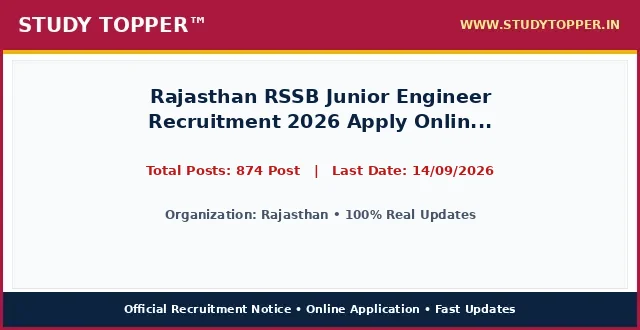
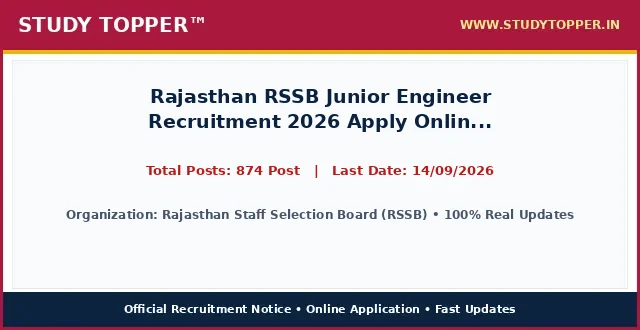
chore(lifecycle): daily auto-sort vacancies and update active dates

Changed region(s): [[0.0938, 0.6364, 0.9062, 0.6667]]

diff --git a/pages/rajasthan-rssb-je-august26.html b/pages/rajasthan-rssb-je-august26.html
@@ -987,12 +987,12 @@ ul.wp-block-latest-posts a:hover {
 <main class="site-main" id="main">
 <div class="gb-container gb-container-b39c368c">
 <h1 class="gb-headline gb-headline-e52a0102 gb-headline-text" style="font-size: 22px; font-weight: 700; color: #0000cd; text-align: left; margin: 8px 0 4px 0; line-height: 1.3; width: 100%; font-family: '-apple-system, BlinkMacSystemFont, 'Segoe UI', Roboto, 'Helvetica Neue', Arial, sans-serif', Times, serif, Hind, sans-serif;">Rajasthan RSSB Junior Engineer Recruitment 2026 Apply Online for 874 Post</h1>
-<div class="gb-container gb-container-659bd175"><p style="color: #cd0808; font-weight: 700; font-size: 15px; margin: 2px 0 7px 0; text-align: left; font-family: '-apple-system, BlinkMacSystemFont, 'Segoe UI', Roboto, 'Helvetica Neue', Arial, sans-serif', Times, serif, Hind, sans-serif;">Post Date: August 22, 2026 11:51 AM</p></div>
-<p class="gb-headline gb-headline-550ae316 short_Details gb-headline-text" style="width: 100%; max-width: 100%; font-size: 16.8px; line-height: 1.55; color: #000000; text-align: justify; text-justify: inter-word; margin: 8px 0 14px 0; display: block; font-family: '-apple-system, BlinkMacSystemFont, 'Segoe UI', Roboto, 'Helvetica Neue', Arial, sans-serif', Times, serif, Hind, sans-serif;"><strong style="color: #0000cd;">Rajasthan</strong> has officially published the recruitment notice <strong style="color: #cd0808;">Rajasthan RSSB Junior Engineer Recruitment 2026 Apply Online for 874 Post</strong> under notification number Official Advt 2026. Online applications are invited for 874 Post across multiple departments and cadre positions. Interested candidates possessing the requisite educational qualifications and falling between 18 Years to 40 Years can complete their online registration before the application deadline of 14/09/2026. Applicants should read the eligibility criteria, category reservation rules, and exam scheme thoroughly before submitting applications.</p>
+<div class="gb-container gb-container-659bd175"><p style="color: #cd0808; font-weight: 700; font-size: 15px; margin: 2px 0 7px 0; text-align: left; font-family: '-apple-system, BlinkMacSystemFont, 'Segoe UI', Roboto, 'Helvetica Neue', Arial, sans-serif', Times, serif, Hind, sans-serif;">Post Date: August 22, 2026 12:58 PM</p></div>
+<p class="gb-headline gb-headline-550ae316 short_Details gb-headline-text" style="width: 100%; max-width: 100%; font-size: 16.8px; line-height: 1.55; color: #000000; text-align: justify; text-justify: inter-word; margin: 8px 0 14px 0; display: block; font-family: '-apple-system, BlinkMacSystemFont, 'Segoe UI', Roboto, 'Helvetica Neue', Arial, sans-serif', Times, serif, Hind, sans-serif;"><strong style="color: #0000cd;">Rajasthan Staff Selection Board (RSSB)</strong> has officially published the recruitment notice <strong style="color: #cd0808;">Rajasthan RSSB Junior Engineer Recruitment 2026 Apply Online for 874 Post</strong> under notification number Official Notification 2026. Online applications are invited for 874 Post across multiple departments and cadre positions. Interested candidates possessing the requisite educational qualifications and falling between 18 Years to 40 Years can complete their online registration before the application deadline of 14/09/2026. Applicants should read the eligibility criteria, category reservation rules, and exam scheme thoroughly before submitting applications.</p>
 <div class="gb-container gb-container-9849916c"><div class="social-buttons-compact" style="display: flex; justify-content: flex-start; align-items: center; gap: 10px; margin: 10px 0 16px 0; width: 100%;"><a class="social-btn-compact wa" href="https://whatsapp.com/channel/0029Va9xyz" rel="noopener" style="background-color: #00d084; color: #ffffff; padding: 10px 18px; border-radius: 4px; text-decoration: none; font-weight: bold; font-size: 15.5px; display: inline-flex; align-items: center; justify-content: center; height: auto;" target="_blank">WhatsApp</a><a class="social-btn-compact tg" href="https://t.me/studytopperofficial" rel="noopener" style="background-color: #0088cc; color: #ffffff; padding: 10px 18px; border-radius: 4px; text-decoration: none; font-weight: bold; font-size: 15.5px; display: inline-flex; align-items: center; justify-content: center; height: auto;" target="_blank">Telegram</a></div></div>
 <div class="gb-container gb-container-f58e6ca1" style="border: 2px solid #5b032f; border-radius: 4px; overflow: hidden; margin: 15px 0 20px 0; background-color: #ffffff; width: 100%; box-sizing: border-box;">
 <h2 class="gb-headline gb-headline-2ca5a791 gb-headline-text" style="font-size: 16px; font-weight: 700; text-align: center; color: #ef0303; line-height: 1.3; padding: 6px 4px; margin: 0; background: #ffffff; font-family: '-apple-system, BlinkMacSystemFont, 'Segoe UI', Roboto, 'Helvetica Neue', Arial, sans-serif', Times, serif, Hind, sans-serif;">Rajasthan RSSB Junior Engineer Recruitment 2026 Apply Online for 874 Post &ndash; Latest Details &amp; Updates</h2>
-<h3 class="gb-headline gb-headline-7d5f86e8 gb-headline-text" style="font-size: 16px; font-weight: 600; text-align: center; color: #009703; line-height: 1.25; margin: 0; padding: 2px 4px 6px 4px; background: #ffffff; font-family: '-apple-system, BlinkMacSystemFont, 'Segoe UI', Roboto, 'Helvetica Neue', Arial, sans-serif', Times, serif, Hind, sans-serif;">Rajasthan : Details &amp; Summary</h3>
+<h3 class="gb-headline gb-headline-7d5f86e8 gb-headline-text" style="font-size: 16px; font-weight: 600; text-align: center; color: #009703; line-height: 1.25; margin: 0; padding: 2px 4px 6px 4px; background: #ffffff; font-family: '-apple-system, BlinkMacSystemFont, 'Segoe UI', Roboto, 'Helvetica Neue', Arial, sans-serif', Times, serif, Hind, sans-serif;">Rajasthan Staff Selection Board (RSSB) : Details &amp; Summary</h3>
 <p class="gb-headline gb-headline-79adf169 gb-headline-text" style="margin: 0 0 6px 0; font-family: '-apple-system, BlinkMacSystemFont, 'Segoe UI', Roboto, 'Helvetica Neue', Arial, sans-serif', Times, serif, Hind, sans-serif; text-align: center; font-size: 18px; font-weight: 700;"><a href="/" style="color: #0000ff; text-decoration: underline;">StudyTopper.in</a></p>
 
 <style id="st-post-boxes-responsive-css">
@@ -1025,7 +1025,7 @@ ul.wp-block-latest-posts a:hover {
     <div style="background-color: #5b032f; color: #ffffff; padding: 8px 10px; font-size: 20px; font-weight: 700; text-align: center; font-family: '-apple-system, BlinkMacSystemFont, 'Segoe UI', Roboto, 'Helvetica Neue', Arial, sans-serif', Times, serif, Hind, sans-serif;">Important Dates</div>
     <div style="padding: 12px 14px; background-color: #ffffff;">
       <ul style="padding-left: 20px; margin: 0; list-style-type: disc; text-align: left; font-size: 14pt; line-height: 1.6; font-family: '-apple-system, BlinkMacSystemFont, 'Segoe UI', Roboto, 'Helvetica Neue', Arial, sans-serif', Times, serif, Hind, sans-serif;">
-        <li><span style="font-size: 14pt;">Application Begin : <strong>16/08/2026</strong></span></li><li><span style="font-size: 14pt;">Last Date for Apply Online : <span style="color: #ff0000;"><strong>14/09/2026</strong></span></span></li><li><span style="font-size: 14pt;">Pay Exam Fee Last Date : <span style="color: #ff0000;"><strong>14/08/2026</strong></span></span></li><li><span style="font-size: 14pt;">RSSB JEn Exam Date : <strong>As per Schedule</strong></span></li><li><span style="font-size: 14pt;">Admit Card Available : <strong>Before Exam</strong></span></li>
+        <li><span style="font-size: 14pt;">Application Begin : <strong>16/08/2026</strong></span></li><li><span style="font-size: 14pt;">Last Date for Apply Online : <span style="color: #ff0000;"><strong>14/09/2026</strong></span></span></li><li><span style="font-size: 14pt;">Pay Exam Fee Last Date : <span style="color: #ff0000;"><strong>14/08/2026</strong></span></span></li><li><span style="font-size: 14pt;">Admit Card Available : <strong>Before Exam</strong></span></li>
       </ul>
     </div>
   </div>
@@ -1034,7 +1034,7 @@ ul.wp-block-latest-posts a:hover {
     <div style="background-color: #5b032f; color: #ffffff; padding: 8px 10px; font-size: 20px; font-weight: 700; text-align: center; font-family: '-apple-system, BlinkMacSystemFont, 'Segoe UI', Roboto, 'Helvetica Neue', Arial, sans-serif', Times, serif, Hind, sans-serif;">Application Fee</div>
     <div style="padding: 12px 14px; background-color: #ffffff;">
       <ul style="padding-left: 20px; margin: 0; list-style-type: disc; text-align: left; font-size: 14pt; line-height: 1.6; font-family: '-apple-system, BlinkMacSystemFont, 'Segoe UI', Roboto, 'Helvetica Neue', Arial, sans-serif', Times, serif, Hind, sans-serif;">
-        <li><span style="font-size: 14pt;">General / OBC / Other State : <strong>600/-</strong></span></li><li><span style="font-size: 14pt;">OBC NCL / MBC / EWS / SC / ST / PH (Rajasthan) : <strong>400/-</strong></span></li><li><span style="font-size: 14pt;">Correction Charge : <strong>300/-</strong></span></li>
+        <li><span style="font-size: 14pt;">General / OBC / Other State : <strong>600/-</strong></span></li><li><span style="font-size: 14pt;">OBC NCL / MBC / EWS / SC / ST / PH (Rajasthan) : <strong>400/-</strong></span></li><li><span style="font-size: 14pt;">Correction Charge : <strong>300/-</strong></span></li><li><span style="font-size: 14pt;">Payment Mode : <strong>Pay the Exam Fee Through Online / Offline Fee Mode Only</strong></span></li>
       </ul>
       <div style="margin-top: 10px; font-size: 14pt; line-height: 1.5; color: #000000; border-top: 1px dashed #ccc; padding-top: 8px; font-family: '-apple-system, BlinkMacSystemFont, 'Segoe UI', Roboto, 'Helvetica Neue', Arial, sans-serif', Times, serif, Hind, sans-serif;">
         <strong>Mode of Payment / Access:</strong> Online via Net Banking, Debit Card, Credit Card, UPI or Free Candidate Portal.
@@ -1047,10 +1047,10 @@ ul.wp-block-latest-posts a:hover {
 <div class="st-grid-row" style="display: flex; flex-wrap: wrap; width: 100%; border-top: 2px solid #5b032f; margin: 0; padding: 0; box-sizing: border-box;">
   <!-- Left Col: Age Limits -->
   <div class="st-col-half st-col-border-right" style="box-sizing: border-box; vertical-align: top;">
-    <div style="background-color: #046132; color: #ffffff; padding: 8px 10px; font-size: 17px; font-weight: 700; text-align: center; font-family: '-apple-system, BlinkMacSystemFont, 'Segoe UI', Roboto, 'Helvetica Neue', Arial, sans-serif', Times, serif, Hind, sans-serif;">Rajasthan : Age Limits As On 01 August 2026</div>
+    <div style="background-color: #046132; color: #ffffff; padding: 8px 10px; font-size: 17px; font-weight: 700; text-align: center; font-family: '-apple-system, BlinkMacSystemFont, 'Segoe UI', Roboto, 'Helvetica Neue', Arial, sans-serif', Times, serif, Hind, sans-serif;">Rajasthan Staff Selection Board (RSSB) : Age Limits As On 01/01/2027</div>
     <div style="padding: 12px 14px; background-color: #ffffff;">
       <ul style="padding-left: 20px; margin: 0; list-style-type: disc; text-align: left; font-size: 14pt; line-height: 1.6; font-family: '-apple-system, BlinkMacSystemFont, 'Segoe UI', Roboto, 'Helvetica Neue', Arial, sans-serif', Times, serif, Hind, sans-serif;">
-        <li><span style="font-size: 14pt;">Minimum Age : <strong>18 Years</strong></span></li><li><span style="font-size: 14pt;">Maximum Age : <strong>40 Years</strong></span></li>
+        <li><span style="font-size: 14pt;">Minimum Age : <strong>18 Years</strong></span></li><li><span style="font-size: 14pt;">Maximum Age : <strong>40 Years</strong></span></li><li><span style="font-size: 14pt;">Age Relaxation : <strong>Age Relaxation Extra as per Rajasthan RSSB Junior Engineer Recruitment Rules Advt. No. 10/2026.</strong></span></li>
       </ul>
     </div>
   </div>
@@ -1070,7 +1070,19 @@ ul.wp-block-latest-posts a:hover {
 <div class="gb-container gb-container-ec1f6e4c">
 <h2 class="gb-headline gb-headline-c7683bda gb-headline-text" style="font-size: 24px; font-weight: 800; text-align: center; color: #ef0303; line-height: 1.35; margin: 20px 0 12px 0; padding: 6px 4px; font-family: '-apple-system, BlinkMacSystemFont, 'Segoe UI', Roboto, 'Helvetica Neue', Arial, sans-serif', Times, serif, Hind, sans-serif;">Rajasthan RSSB Junior Engineer Recruitment 2026 Apply Online for 874 Post : Key Overview &amp; Matrix</h2>
 <div class="gb-headline gb-headline-60ccea19 gb-headline-text">
-
+<table style="border-collapse: collapse; width: 100%; height: 150px;">
+<tbody>
+<tr style="height: 25px;">
+<td colspan="2" style="width: 50%; text-align: center; height: 25px;"><span style="background-color: #000080; color: #ffffff; font-size: 14pt;"><strong> Rajasthan Staff Selection Board (RSSB) : Category Wise Vacancy Details </strong></span></td>
+</tr>
+<tr style="height: 25px;">
+<td style="width: 50%; height: 25px; text-align: center;"><span style="font-size: 14pt;"><strong>Category / Particulars</strong></span></td>
+<td style="width: 50%; height: 25px; text-align: center;"><span style="font-size: 14pt;"><strong>Count / Status</strong></span></td>
+</tr>
+<tr><td style="text-align: center;">Total Post</td><td style="text-align: center; font-weight: bold; color: #ff0000;">351</td></tr><tr><td style="text-align: center;">Rajasthan RSSB Junior Engineer Eligibility</td><td style="text-align: center; font-weight: normal; color: inherit;">Engineering Diploma or Degree in Related Trade / Branch from any Recognized Institute in India. More Eligibility Details Read the Notification</td></tr><tr><td style="text-align: center;">Degree Type</td><td style="text-align: center; font-weight: normal; color: inherit;">Degree</td></tr><tr><td style="text-align: center;">Non TSP</td><td style="text-align: center; font-weight: normal; color: inherit;">329</td></tr><tr><td style="text-align: center;">TSP</td><td style="text-align: center; font-weight: normal; color: inherit;">22</td></tr>
+</tbody>
+</table>
+<p>&nbsp;</p>
 <table style="border-collapse: collapse; width: 100%;">
 <tbody>
 <tr>
@@ -1079,9 +1091,33 @@ ul.wp-block-latest-posts a:hover {
 <th style="background-color: #f53c00; color: #ffffff; padding: 6px 10px; text-align: center; border: 1px solid #d35400; font-size: 15px; font-weight: 700; font-family: '-apple-system, BlinkMacSystemFont, 'Segoe UI', Roboto, 'Helvetica Neue', Arial, sans-serif', Times, serif, Hind, sans-serif;">Eligibility Criteria</th>
 </tr>
 <tr>
-<td style="padding: 8px; border: 1px solid #ddd; font-weight: bold;">Rajasthan Recruitment</td>
-<td style="padding: 8px; border: 1px solid #ddd; text-align: center; font-weight: bold;">874 Post</td>
-<td style="padding: 8px; border: 1px solid #ddd;">Please refer to the official notification linked below for detailed educational qualifications.</td>
+<td style="padding: 8px; border: 1px solid #ddd; font-weight: bold;">Junior Engineer</td>
+<td style="padding: 8px; border: 1px solid #ddd; text-align: center; font-weight: bold;">874</td>
+<td style="padding: 8px; border: 1px solid #ddd;">Engineering Diploma or Degree in Related Trade / Branch from any Recognized Institute in India. More Eligibility Details Read the Notification</td>
+</tr><tr>
+<td style="padding: 8px; border: 1px solid #ddd; font-weight: bold;">RSSB Junior Engineer Online Form 2026 : Post Wise Vacancy Details Post Name Degree Type Non TSP TSP Total Post Junior Engineer Civil (Public Works Department) Degree 329 22 351 Diploma 41 01 42 Junior Engineer (Water Resources Department) Degree 72 0 72 Diploma 144 35 179 Junior Engineer (Department of Public Health Engineering) Degree 44 03 47 Diploma 133 18 151 Diploma Electrical / Mechanic 30 02 32</td>
+<td style="padding: 8px; border: 1px solid #ddd; text-align: center; font-weight: bold;">Post Name</td>
+<td style="padding: 8px; border: 1px solid #ddd;">Degree Type Non TSP TSP Total Post Junior Engineer Civil (Public Works Department) Degree 329 22 351 Diploma 41 01 42 Junior Engineer ( Water Resources Department) Degree 72 0 72 Diploma 144 35 179 Junior Engineer (Department of Public Health Engineering) Degree 44 03 47 Diploma 133 18 151 Diploma Electrical / Mechanic 30 02 32</td>
+</tr><tr>
+<td style="padding: 8px; border: 1px solid #ddd; font-weight: bold;">Junior Engineer Civil (Public Works Department)</td>
+<td style="padding: 8px; border: 1px solid #ddd; text-align: center; font-weight: bold;">Degree</td>
+<td style="padding: 8px; border: 1px solid #ddd;">329 22 351</td>
+</tr><tr>
+<td style="padding: 8px; border: 1px solid #ddd; font-weight: bold;">Diploma</td>
+<td style="padding: 8px; border: 1px solid #ddd; text-align: center; font-weight: bold;">41</td>
+<td style="padding: 8px; border: 1px solid #ddd;">01 42</td>
+</tr><tr>
+<td style="padding: 8px; border: 1px solid #ddd; font-weight: bold;">Junior Engineer (Water Resources Department)</td>
+<td style="padding: 8px; border: 1px solid #ddd; text-align: center; font-weight: bold;">Degree</td>
+<td style="padding: 8px; border: 1px solid #ddd;">72 0 72</td>
+</tr><tr>
+<td style="padding: 8px; border: 1px solid #ddd; font-weight: bold;">Junior Engineer (Department of Public Health Engineering)</td>
+<td style="padding: 8px; border: 1px solid #ddd; text-align: center; font-weight: bold;">Degree</td>
+<td style="padding: 8px; border: 1px solid #ddd;">44 03 47</td>
+</tr><tr>
+<td style="padding: 8px; border: 1px solid #ddd; font-weight: bold;">Diploma Electrical / Mechanic</td>
+<td style="padding: 8px; border: 1px solid #ddd; text-align: center; font-weight: bold;">30</td>
+<td style="padding: 8px; border: 1px solid #ddd;">02 32</td>
 </tr>
 </tbody>
 </table>
@@ -1093,10 +1129,10 @@ ul.wp-block-latest-posts a:hover {
 <table style="border-collapse: collapse; width: 100%;">
 <tbody>
 <tr>
-<td style="width: 100%; text-align: center;"><span style="background-color: #000080; color: #ffffff; font-size: 14pt; font-weight: bold; display: block; padding: 6px;"> How to Fill Rajasthan Online Application Form </span></td>
+<td style="width: 100%; text-align: center;"><span style="background-color: #000080; color: #ffffff; font-size: 14pt; font-weight: bold; display: block; padding: 6px;"> How to Fill Rajasthan Staff Selection Board (RSSB) Online Application Form </span></td>
 </tr>
 <tr>
-<td style="width: 100%;"><ol style="margin:0; padding-left:18px; text-align: left !important; list-style-position: outside !important"><li style="margin-bottom:6px; text-align: left !important;">Read the official recruitment notification carefully before applying.</li><li style="margin-bottom:6px; text-align: left !important;">Keep all basic documents ready: ID Proof, Address Details, Basic Details.</li><li style="margin-bottom:6px; text-align: left !important;">Ready your scanned documents like Photo, Signature, ID Proof, etc.</li><li style="margin-bottom:6px; text-align: left !important;">Click on the 'Apply Online' link given in the Important Links section below.</li><li style="margin-bottom:6px; text-align: left !important;">Fill out all the columns in the application form accurately.</li><li style="margin-bottom:6px; text-align: left !important;">Pay the required application fee if applicable.</li><li style="margin-bottom:6px; text-align: left !important;">Take a printout of the final submitted application form.</li><li style="margin-bottom:6px; text-align: left !important;">Resize candidate photograph and signature accurately using the <a href="https://indtool.in" rel="noopener" target="_blank"><strong>StudyTopper Tools</strong></a> image resizer at indtool.in.</li></ol></td>
+<td style="width: 100%;"><ol style="margin:0; padding-left:18px; text-align: left !important; list-style-position: outside !important"><li style="margin-bottom:6px; text-align: left !important;">Rajasthan Staff Selection Board (RSSB) Are Issued Junior Engineer Recruitment 2026. Notification and Invited Online Application Form for the RSSB Junior Engineer Recruitment 2026 Candidate Can Apply Online for</li><li style="margin-bottom:6px; text-align: left !important;">16/08/2026 to 14/09/2026.</li><li style="margin-bottom:6px; text-align: left !important;">Kindly Check and Collect the All Document – Hand Writing, Eligibility, ID Proof, Address Details, Basic Details.</li><li style="margin-bottom:6px; text-align: left !important;">Kindly Ready Scan Document Related to Recruitment Form – Photo, Sign, ID, Thumb, Proof, Etc.</li><li style="margin-bottom:6px; text-align: left !important;">Before Submit the Application Form Must Check the Preview and All Column Carefully.</li><li style="margin-bottom:6px; text-align: left !important;">If Candidate Required to Paying the Application Fee Must Submit. If You have Not the Required Application Fees Your Form is Not Completed.</li><li style="margin-bottom:6px; text-align: left !important;">Take A Print Out of Final Submitted Form.</li><li style="margin-bottom:6px; text-align: left !important;">Resize candidate photograph and signature accurately using the <a href="https://indtool.in" rel="noopener" target="_blank"><strong>StudyTopper Tools</strong></a> image resizer at indtool.in.</li></ol></td>
 </tr>
 </tbody>
 </table>
@@ -1104,7 +1140,7 @@ ul.wp-block-latest-posts a:hover {
 <table style="border-collapse: collapse; width: 100%;">
 <tbody>
 <tr>
-<td style="width: 100%; text-align: center;"><span style="background-color: #000080; color: #ffffff; font-size: 14pt;"><strong><span style="color: #ffffff;"> Rajasthan Recruitment 2026 : Mode Of Selection </span></strong></span></td>
+<td style="width: 100%; text-align: center;"><span style="background-color: #000080; color: #ffffff; font-size: 14pt;"><strong><span style="color: #ffffff;"> Rajasthan Staff Selection Board (RSSB) Recruitment 2026 : Mode Of Selection </span></strong></span></td>
 </tr>
 <tr>
 <td style="width: 100%;">
@@ -1144,42 +1180,82 @@ ul.wp-block-latest-posts a:hover {
 
 <tr style="border-bottom: 1px solid #000000; background-color: #fff37a;">
 <td style="width: 50%; padding: 14px 16px; border-right: 1px solid #000000; text-align: center;">
-<span style="font-size: 19px; font-weight: 800; color: #000000; font-family: '-apple-system, BlinkMacSystemFont, 'Segoe UI', Roboto, 'Helvetica Neue', Arial, sans-serif', Times, serif, Hind, sans-serif;">Apply Online Link</span>
+<span style="font-size: 19px; font-weight: 800; color: #000000; font-family: '-apple-system, BlinkMacSystemFont, 'Segoe UI', Roboto, 'Helvetica Neue', Arial, sans-serif', Times, serif, Hind, sans-serif;">Sarkari Result Android App</span>
 </td>
 <td style="width: 50%; padding: 14px 16px; text-align: center;">
-<span style="font-size: 20px; font-weight: 800; font-family: '-apple-system, BlinkMacSystemFont, 'Segoe UI', Roboto, 'Helvetica Neue', Arial, sans-serif', Times, serif, Hind, sans-serif;"><a href="https://rssb.rajasthan.gov.in/" aria-label="Click Here for Apply Online Link - Rajasthan RSSB Junior Engineer Recruitment 2026 Apply Online for 874 Post" rel="noopener noreferrer" style="color: #0000ef; font-weight: 800; text-decoration: none;" target="_blank">Click Here</a></span>
+<span style="font-size: 20px; font-weight: 800; font-family: '-apple-system, BlinkMacSystemFont, 'Segoe UI', Roboto, 'Helvetica Neue', Arial, sans-serif', Times, serif, Hind, sans-serif;"><a href="https://itunes.apple.com/us/app/sarkari-result/id1051363935?ls=1&mt=8" aria-label="Click Here for Sarkari Result Android App - Rajasthan RSSB Junior Engineer Recruitment 2026 Apply Online for 874 Post" rel="noopener noreferrer" style="color: #0000ef; font-weight: 800; text-decoration: none;" target="_blank">Click Here</a></span>
 </td>
 </tr>
 <tr style="border-bottom: 1px solid #000000; background-color: #fff37a;">
 <td style="width: 50%; padding: 14px 16px; border-right: 1px solid #000000; text-align: center;">
-<span style="font-size: 19px; font-weight: 800; color: #000000; font-family: '-apple-system, BlinkMacSystemFont, 'Segoe UI', Roboto, 'Helvetica Neue', Arial, sans-serif', Times, serif, Hind, sans-serif;">Check Official Notification</span>
+<span style="font-size: 19px; font-weight: 800; color: #000000; font-family: '-apple-system, BlinkMacSystemFont, 'Segoe UI', Roboto, 'Helvetica Neue', Arial, sans-serif', Times, serif, Hind, sans-serif;">Apply Online</span>
 </td>
 <td style="width: 50%; padding: 14px 16px; text-align: center;">
-<span style="font-size: 20px; font-weight: 800; font-family: '-apple-system, BlinkMacSystemFont, 'Segoe UI', Roboto, 'Helvetica Neue', Arial, sans-serif', Times, serif, Hind, sans-serif;"><a href="https://rssb.rajasthan.gov.in/" aria-label="Click Here for Check Official Notification - Rajasthan RSSB Junior Engineer Recruitment 2026 Apply Online for 874 Post" rel="noopener noreferrer" style="color: #0000ef; font-weight: 800; text-decoration: none;" target="_blank">Click Here</a></span>
+<span style="font-size: 20px; font-weight: 800; font-family: '-apple-system, BlinkMacSystemFont, 'Segoe UI', Roboto, 'Helvetica Neue', Arial, sans-serif', Times, serif, Hind, sans-serif;"><a href="https://sso.rajasthan.gov.in/" aria-label="Click Here for Apply Online - Rajasthan RSSB Junior Engineer Recruitment 2026 Apply Online for 874 Post" rel="noopener noreferrer" style="color: #0000ef; font-weight: 800; text-decoration: none;" target="_blank">Click Here</a></span>
 </td>
 </tr>
 <tr style="border-bottom: 1px solid #000000; background-color: #fff37a;">
 <td style="width: 50%; padding: 14px 16px; border-right: 1px solid #000000; text-align: center;">
-<span style="font-size: 19px; font-weight: 800; color: #000000; font-family: '-apple-system, BlinkMacSystemFont, 'Segoe UI', Roboto, 'Helvetica Neue', Arial, sans-serif', Times, serif, Hind, sans-serif;">Photo / Sign Resizer Tool</span>
+<span style="font-size: 19px; font-weight: 800; color: #000000; font-family: '-apple-system, BlinkMacSystemFont, 'Segoe UI', Roboto, 'Helvetica Neue', Arial, sans-serif', Times, serif, Hind, sans-serif;">How To Fill Form (Hindi Video)</span>
 </td>
 <td style="width: 50%; padding: 14px 16px; text-align: center;">
-<span style="font-size: 20px; font-weight: 800; font-family: '-apple-system, BlinkMacSystemFont, 'Segoe UI', Roboto, 'Helvetica Neue', Arial, sans-serif', Times, serif, Hind, sans-serif;"><a href="https://indtool.in" aria-label="Click Here for Photo / Sign Resizer Tool - Rajasthan RSSB Junior Engineer Recruitment 2026 Apply Online for 874 Post" rel="noopener noreferrer" style="color: #0000ef; font-weight: 800; text-decoration: none;" target="_blank">Click Here</a></span>
+<span style="font-size: 20px; font-weight: 800; font-family: '-apple-system, BlinkMacSystemFont, 'Segoe UI', Roboto, 'Helvetica Neue', Arial, sans-serif', Times, serif, Hind, sans-serif;"><a href="https://youtu.be/qzm4eG_CI_o" aria-label="Click Here for How To Fill Form (Hindi Video) - Rajasthan RSSB Junior Engineer Recruitment 2026 Apply Online for 874 Post" rel="noopener noreferrer" style="color: #0000ef; font-weight: 800; text-decoration: none;" target="_blank">Click Here</a></span>
 </td>
 </tr>
 <tr style="border-bottom: 1px solid #000000; background-color: #fff37a;">
+<td style="width: 50%; padding: 14px 16px; border-right: 1px solid #000000; text-align: center;">
+<span style="font-size: 19px; font-weight: 800; color: #000000; font-family: '-apple-system, BlinkMacSystemFont, 'Segoe UI', Roboto, 'Helvetica Neue', Arial, sans-serif', Times, serif, Hind, sans-serif;">Download Syllabus</span>
+</td>
+<td style="width: 50%; padding: 14px 16px; text-align: center;">
+<span style="font-size: 20px; font-weight: 800; font-family: '-apple-system, BlinkMacSystemFont, 'Segoe UI', Roboto, 'Helvetica Neue', Arial, sans-serif', Times, serif, Hind, sans-serif;"><a href="https://doc.sarkariresults.org.in/SarkariResult.Com_RSSB_JE_Syllabus_2026.pdf" aria-label="Click Here for Download Syllabus - Rajasthan RSSB Junior Engineer Recruitment 2026 Apply Online for 874 Post" rel="noopener noreferrer" style="color: #0000ef; font-weight: 800; text-decoration: none;" target="_blank">Click Here</a></span>
+</td>
+</tr>
+<tr style="border-bottom: 1px solid #000000; background-color: #fff37a;">
+<td style="width: 50%; padding: 14px 16px; border-right: 1px solid #000000; text-align: center;">
+<span style="font-size: 19px; font-weight: 800; color: #000000; font-family: '-apple-system, BlinkMacSystemFont, 'Segoe UI', Roboto, 'Helvetica Neue', Arial, sans-serif', Times, serif, Hind, sans-serif;">Download Notification</span>
+</td>
+<td style="width: 50%; padding: 14px 16px; text-align: center;">
+<span style="font-size: 20px; font-weight: 800; font-family: '-apple-system, BlinkMacSystemFont, 'Segoe UI', Roboto, 'Helvetica Neue', Arial, sans-serif', Times, serif, Hind, sans-serif;"><a href="https://doc.sarkariresults.org.in/SarkariResult.Com_RSSB_JE_Notification_2026.pdf" aria-label="Click Here for Download Notification - Rajasthan RSSB Junior Engineer Recruitment 2026 Apply Online for 874 Post" rel="noopener noreferrer" style="color: #0000ef; font-weight: 800; text-decoration: none;" target="_blank">Click Here</a></span>
+</td>
+</tr>
+<tr style="border-bottom: 1px solid #000000; background-color: #fff37a;">
+<td style="width: 50%; padding: 14px 16px; border-right: 1px solid #000000; text-align: center;">
+<span style="font-size: 19px; font-weight: 800; color: #000000; font-family: '-apple-system, BlinkMacSystemFont, 'Segoe UI', Roboto, 'Helvetica Neue', Arial, sans-serif', Times, serif, Hind, sans-serif;">Signature Resizer, PDF Compress, Age Calculator and More Tools</span>
+</td>
+<td style="width: 50%; padding: 14px 16px; text-align: center;">
+<span style="font-size: 20px; font-weight: 800; font-family: '-apple-system, BlinkMacSystemFont, 'Segoe UI', Roboto, 'Helvetica Neue', Arial, sans-serif', Times, serif, Hind, sans-serif;"><a href="https://sarkariresultportal.com/" aria-label="Click Here for Signature Resizer, PDF Compress, Age Calculator and More Tools - Rajasthan RSSB Junior Engineer Recruitment 2026 Apply Online for 874 Post" rel="noopener noreferrer" style="color: #0000ef; font-weight: 800; text-decoration: none;" target="_blank">Click Here</a></span>
+</td>
+</tr>
+<tr style="border-bottom: 1px solid #000000; background-color: #fff37a;">
+<td style="width: 50%; padding: 14px 16px; border-right: 1px solid #000000; text-align: center;">
+<span style="font-size: 19px; font-weight: 800; color: #000000; font-family: '-apple-system, BlinkMacSystemFont, 'Segoe UI', Roboto, 'Helvetica Neue', Arial, sans-serif', Times, serif, Hind, sans-serif;">Join Sarkari Result Channel</span>
+</td>
+<td style="width: 50%; padding: 14px 16px; text-align: center;">
+<span style="font-size: 20px; font-weight: 800; font-family: '-apple-system, BlinkMacSystemFont, 'Segoe UI', Roboto, 'Helvetica Neue', Arial, sans-serif', Times, serif, Hind, sans-serif;"><a href="https://t.me/SarkariResult2012" aria-label="Click Here for Join Sarkari Result Channel - Rajasthan RSSB Junior Engineer Recruitment 2026 Apply Online for 874 Post" rel="noopener noreferrer" style="color: #0000ef; font-weight: 800; text-decoration: none;" target="_blank">Click Here</a></span>
+</td>
+</tr>
+<tr style="border-bottom: 1px solid #000000; background-color: #fff37a;">
+<td style="width: 50%; padding: 14px 16px; border-right: 1px solid #000000; text-align: center;">
+<span style="font-size: 19px; font-weight: 800; color: #000000; font-family: '-apple-system, BlinkMacSystemFont, 'Segoe UI', Roboto, 'Helvetica Neue', Arial, sans-serif', Times, serif, Hind, sans-serif;">Join Sarkari Result Channel</span>
+</td>
+<td style="width: 50%; padding: 14px 16px; text-align: center;">
+<span style="font-size: 20px; font-weight: 800; font-family: '-apple-system, BlinkMacSystemFont, 'Segoe UI', Roboto, 'Helvetica Neue', Arial, sans-serif', Times, serif, Hind, sans-serif;"><a href="https://whatsapp.com/channel/0029Va5IElwBlHpVBd6i5a18" aria-label="Click Here for Join Sarkari Result Channel - Rajasthan RSSB Junior Engineer Recruitment 2026 Apply Online for 874 Post" rel="noopener noreferrer" style="color: #0000ef; font-weight: 800; text-decoration: none;" target="_blank">Click Here</a></span>
+</td>
+</tr>
+<tr style="border-bottom: 1px solid #000000; background-color: #fff37a;">
+<td style="width: 50%; padding: 14px 16px; border-right: 1px solid #000000; text-align: center;">
+<span style="font-size: 19px; font-weight: 800; color: #000000; font-family: '-apple-system, BlinkMacSystemFont, 'Segoe UI', Roboto, 'Helvetica Neue', Arial, sans-serif', Times, serif, Hind, sans-serif;">Official Website</span>
+</td>
+<td style="width: 50%; padding: 14px 16px; text-align: center;">
+<span style="font-size: 20px; font-weight: 800; font-family: '-apple-system, BlinkMacSystemFont, 'Segoe UI', Roboto, 'Helvetica Neue', Arial, sans-serif', Times, serif, Hind, sans-serif;"><a href="https://rssb.rajasthan.gov.in/" aria-label="Click Here for Official Website - Rajasthan RSSB Junior Engineer Recruitment 2026 Apply Online for 874 Post" rel="noopener noreferrer" style="color: #0000ef; font-weight: 800; text-decoration: none;" target="_blank">Click Here</a></span>
+</td>
+</tr>
+<tr style=" background-color: #fff37a;">
 <td style="width: 50%; padding: 14px 16px; border-right: 1px solid #000000; text-align: center;">
 <span style="font-size: 19px; font-weight: 800; color: #000000; font-family: '-apple-system, BlinkMacSystemFont, 'Segoe UI', Roboto, 'Helvetica Neue', Arial, sans-serif', Times, serif, Hind, sans-serif;">Check Sarkari Result</span>
 </td>
 <td style="width: 50%; padding: 14px 16px; text-align: center;">
 <span style="font-size: 20px; font-weight: 800; font-family: '-apple-system, BlinkMacSystemFont, 'Segoe UI', Roboto, 'Helvetica Neue', Arial, sans-serif', Times, serif, Hind, sans-serif;"><a href="/" aria-label="Click Here for Check Sarkari Result - Rajasthan RSSB Junior Engineer Recruitment 2026 Apply Online for 874 Post" rel="noopener noreferrer" style="color: #0000ef; font-weight: 800; text-decoration: none;" >Click Here</a></span>
-</td>
-</tr>
-<tr style=" background-color: #fff37a;">
-<td style="width: 50%; padding: 14px 16px; border-right: 1px solid #000000; text-align: center;">
-<span style="font-size: 19px; font-weight: 800; color: #000000; font-family: '-apple-system, BlinkMacSystemFont, 'Segoe UI', Roboto, 'Helvetica Neue', Arial, sans-serif', Times, serif, Hind, sans-serif;">Rajasthan Website</span>
-</td>
-<td style="width: 50%; padding: 14px 16px; text-align: center;">
-<span style="font-size: 20px; font-weight: 800; font-family: '-apple-system, BlinkMacSystemFont, 'Segoe UI', Roboto, 'Helvetica Neue', Arial, sans-serif', Times, serif, Hind, sans-serif;"><a href="https://rssb.rajasthan.gov.in/" aria-label="Click Here for Rajasthan Website - Rajasthan RSSB Junior Engineer Recruitment 2026 Apply Online for 874 Post" rel="noopener noreferrer" style="color: #0000ef; font-weight: 800; text-decoration: none;" target="_blank">Click Here</a></span>
 </td>
 </tr>
 </tbody>
@@ -1193,7 +1269,7 @@ ul.wp-block-latest-posts a:hover {
   <div style="font-size: 14.5px; line-height: 1.65; color: #222222;">
     <p style="margin: 0 0 4px 0;"><strong style="color: #000080;">Q1. What is the last date to apply for Rajasthan RSSB Junior Engineer Recruitment 2026 Apply Online for 874 Post?</strong></p>
 <p style="margin: 0 0 16px 0; color: #333333; line-height: 1.6;">Ans. The last date for online submission of application is 14/09/2026.</p><p style="margin: 0 0 4px 0;"><strong style="color: #000080;">Q2. What is the age limit for Rajasthan RSSB Junior Engineer Recruitment 2026 Apply Online for 874 Post?</strong></p>
-<p style="margin: 0 0 16px 0; color: #333333; line-height: 1.6;">Ans. Candidate age should generally be between 18 Years and 40 Years as on 01 August 2026. Age relaxation is applicable per rules.</p><p style="margin: 0 0 4px 0;"><strong style="color: #000080;">Q3. What is the application fee for Rajasthan RSSB Junior Engineer Recruitment 2026 Apply Online for 874 Post?</strong></p>
+<p style="margin: 0 0 16px 0; color: #333333; line-height: 1.6;">Ans. Candidate age should generally be between 18 Years and 40 Years as on 01/01/2027. Age relaxation is applicable per rules.</p><p style="margin: 0 0 4px 0;"><strong style="color: #000080;">Q3. What is the application fee for Rajasthan RSSB Junior Engineer Recruitment 2026 Apply Online for 874 Post?</strong></p>
 <p style="margin: 0 0 16px 0; color: #333333; line-height: 1.6;">Ans. Application fee varies by category (e.g., General/OBC: Rs. 100/-, SC/ST/PwD: Exempted).</p><p style="margin: 0 0 4px 0;"><strong style="color: #000080;">Q4. How many total posts are available in Rajasthan RSSB Junior Engineer Recruitment 2026 Apply Online for 874 Post?</strong></p>
 <p style="margin: 0 0 16px 0; color: #333333; line-height: 1.6;">Ans. A total of 874 Post have been officially announced for this recruitment drive.</p><p style="margin: 0 0 4px 0;"><strong style="color: #000080;">Q5. How can I apply online for Rajasthan RSSB Junior Engineer Recruitment 2026 Apply Online for 874 Post?</strong></p>
 <p style="margin: 0 0 0 0; color: #333333; line-height: 1.6;">Ans. Eligible candidates can click the 'Apply Online' link in the Important Links table, register, fill details, resize photo/signature via indtool.in, and submit before 14/09/2026.</p>
